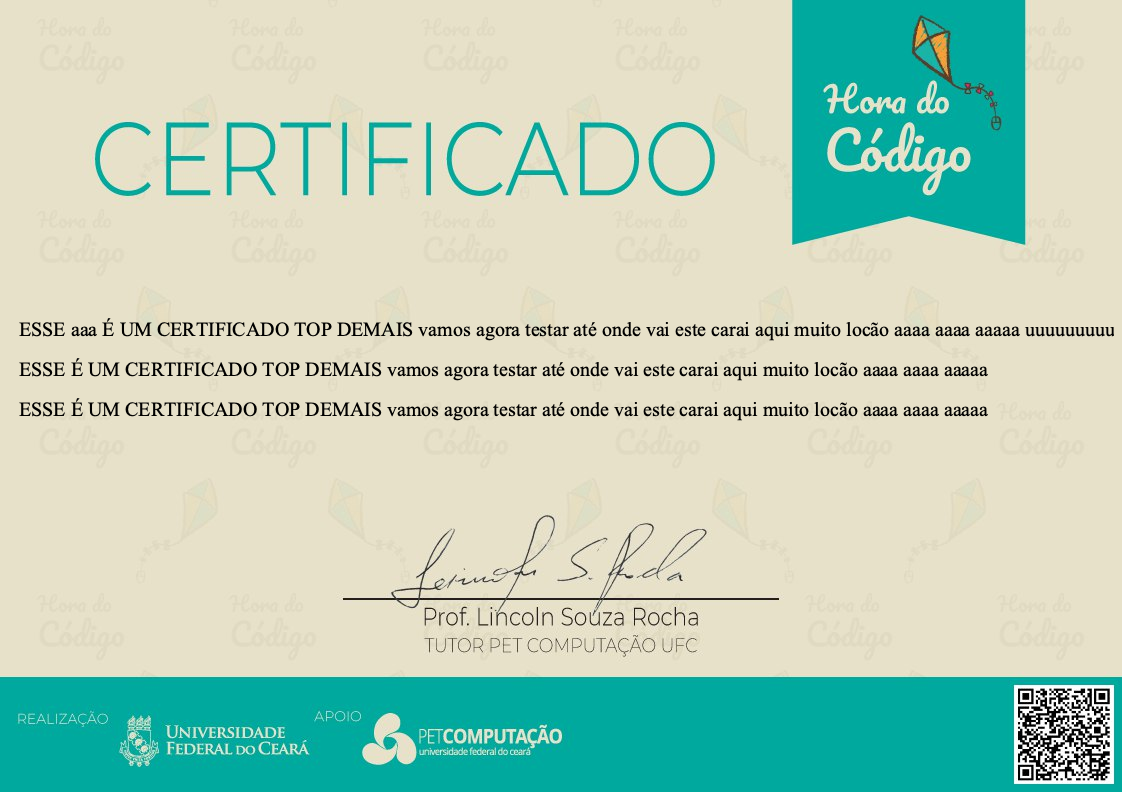
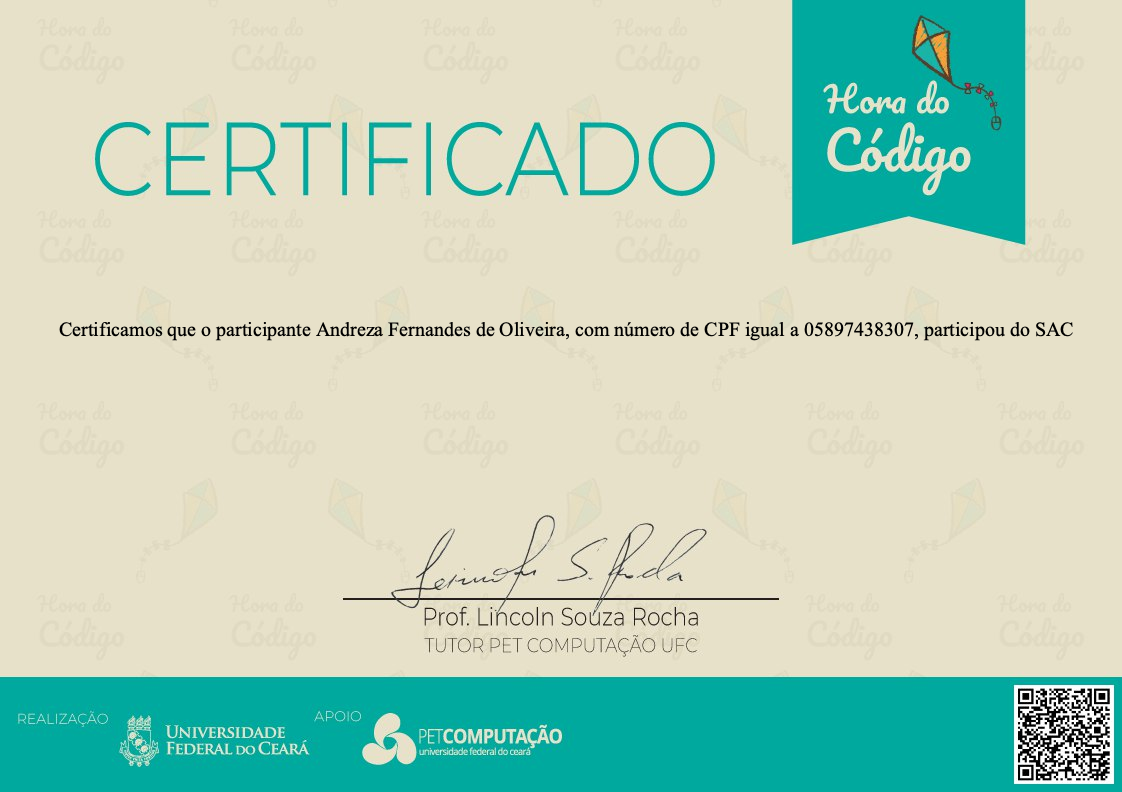
[+] Ta funcionando pra 1 linha de texto kkkkkk triste

Changed region(s): [[0.0, 0.4545, 0.8734, 0.5455], [0.0, 0.3939, 0.9982, 0.4242]]

diff --git a/backend/src/controllers/CertificadoController.js b/backend/src/controllers/CertificadoController.js
@@ -10,49 +10,48 @@ const sharp = require('sharp');
 certificados = [];
 
 async function gerar_certificado(texto, img_base, nome_img){
-    // var textoSVG = ` <svg>
-    //                 <rect x="0" fill="none" y="0" width="800" height="200" rx="50" ry="50"/> `
+    var textoSVG = ` <svg>
+                    <rect x="0" fill="none" y="0" width="800" height="200" rx="50" ry="50"/> `
 
-    // var x = 10,
-    //     y = 40,
-    //     i = 0,
-    //     // interacoes = texto.length / 100;
-    //     style = `style="font-family: Times New Roman; font-size: 20; stroke: none; fill: black; text-align: center"`;
+    var x = 10,
+        y = 40,
+        i = 0,
+        // interacoes = texto.length / 100;
+        style = `style="font-family: Times New Roman; font-size: 20; stroke: none; fill: black; text-align: center"`;
 
     // //TODO: Verificação pra quando for a ultima rodada
     // for(i = 0; i < texto.length; i += 100){
-    //     textoSVG += `<text x=`+ x + ` y=`+ y + ` `+ style + `>`
-    //                     + texto.substr(i, i+=99);
-    //                 +`</text>`;
+    // console.log(texto.substr(i, i+=99));
+        textoSVG += `<text x="10" y="40" style="font-family: Times New Roman; font-size: 20; stroke: none; fill: black; text-align: center">` + texto.substr(i, i+=120) +`</text>`
     //     x += 
     // }
 
-    // textoSVG += `</svg>`;
-    // const textoBuffer = Buffer.from( textoSVG);
+    textoSVG += `</svg>`;
+    const textoBuffer = Buffer.from( textoSVG);
 
 
-    const roundedCorners = Buffer.from(
-        `
-            <svg>
-            <rect x="0" fill="none" y="0" width="800" height="200" rx="50" ry="50"/>
-                <text x="10" y="40"  style="font-family: Times New Roman; font-size: 20; stroke: none; fill: black; text-align: center">
-                    ESSE aaa É UM CERTIFICADO TOP DEMAIS vamos agora testar até onde vai este carai aqui muito locão aaaa aaaa aaaaa uuuuuuuuu 
-                </text>
+    // const roundedCorners = Buffer.from(
+    //     `
+    //         <svg>
+    //         <rect x="0" fill="none" y="0" width="800" height="200" rx="50" ry="50"/>
+    //             <text x="10" y="40"  style="font-family: Times New Roman; font-size: 20; stroke: none; fill: black; text-align: center">
+    //                 ESSE aaa É UM CERTIFICADO TOP DEMAIS vamos agora testar até onde vai este carai aqui muito locão aaaa aaaa aaaaa uuuuuuuuu 
+    //             </text>
     
-                <text x="10" y="80"  style="font-family: Times New Roman; font-size: 20; stroke: none; fill: black; text-align: center">
-                    ESSE É UM CERTIFICADO TOP DEMAIS vamos agora testar até onde vai este carai aqui muito locão aaaa aaaa aaaaa
-                </text>
+    //             <text x="10" y="80"  style="font-family: Times New Roman; font-size: 20; stroke: none; fill: black; text-align: center">
+    //                 ESSE É UM CERTIFICADO TOP DEMAIS vamos agora testar até onde vai este carai aqui muito locão aaaa aaaa aaaaa
+    //             </text>
     
-                <text x="10" y="120"  style="font-family: Times New Roman; font-size: 20; stroke: none; fill: black; text-align: center">
-                    ESSE É UM CERTIFICADO TOP DEMAIS vamos agora testar até onde vai este carai aqui muito locão aaaa aaaa aaaaa
-                 </text>
-            </svg>
-        `
-      );
+    //             <text x="10" y="120"  style="font-family: Times New Roman; font-size: 20; stroke: none; fill: black; text-align: center">
+    //                 ESSE É UM CERTIFICADO TOP DEMAIS vamos agora testar até onde vai este carai aqui muito locão aaaa aaaa aaaaa
+    //              </text>
+    //         </svg>
+    //     `
+    //   );
     
     const img_final = sharp(img_base)
                     .composite([{
-                        input: roundedCorners,
+                        input: textoBuffer,
                         blend: 'atop'
                     }])
                     .toFile(nome_img);
@@ -98,7 +97,7 @@ module.exports = {
             certificados.push(await get_infos(participacao))
         }
         
-        console.log(certificados);
+        // console.log(certificados);
         
         return res.json(certificados);
     },
